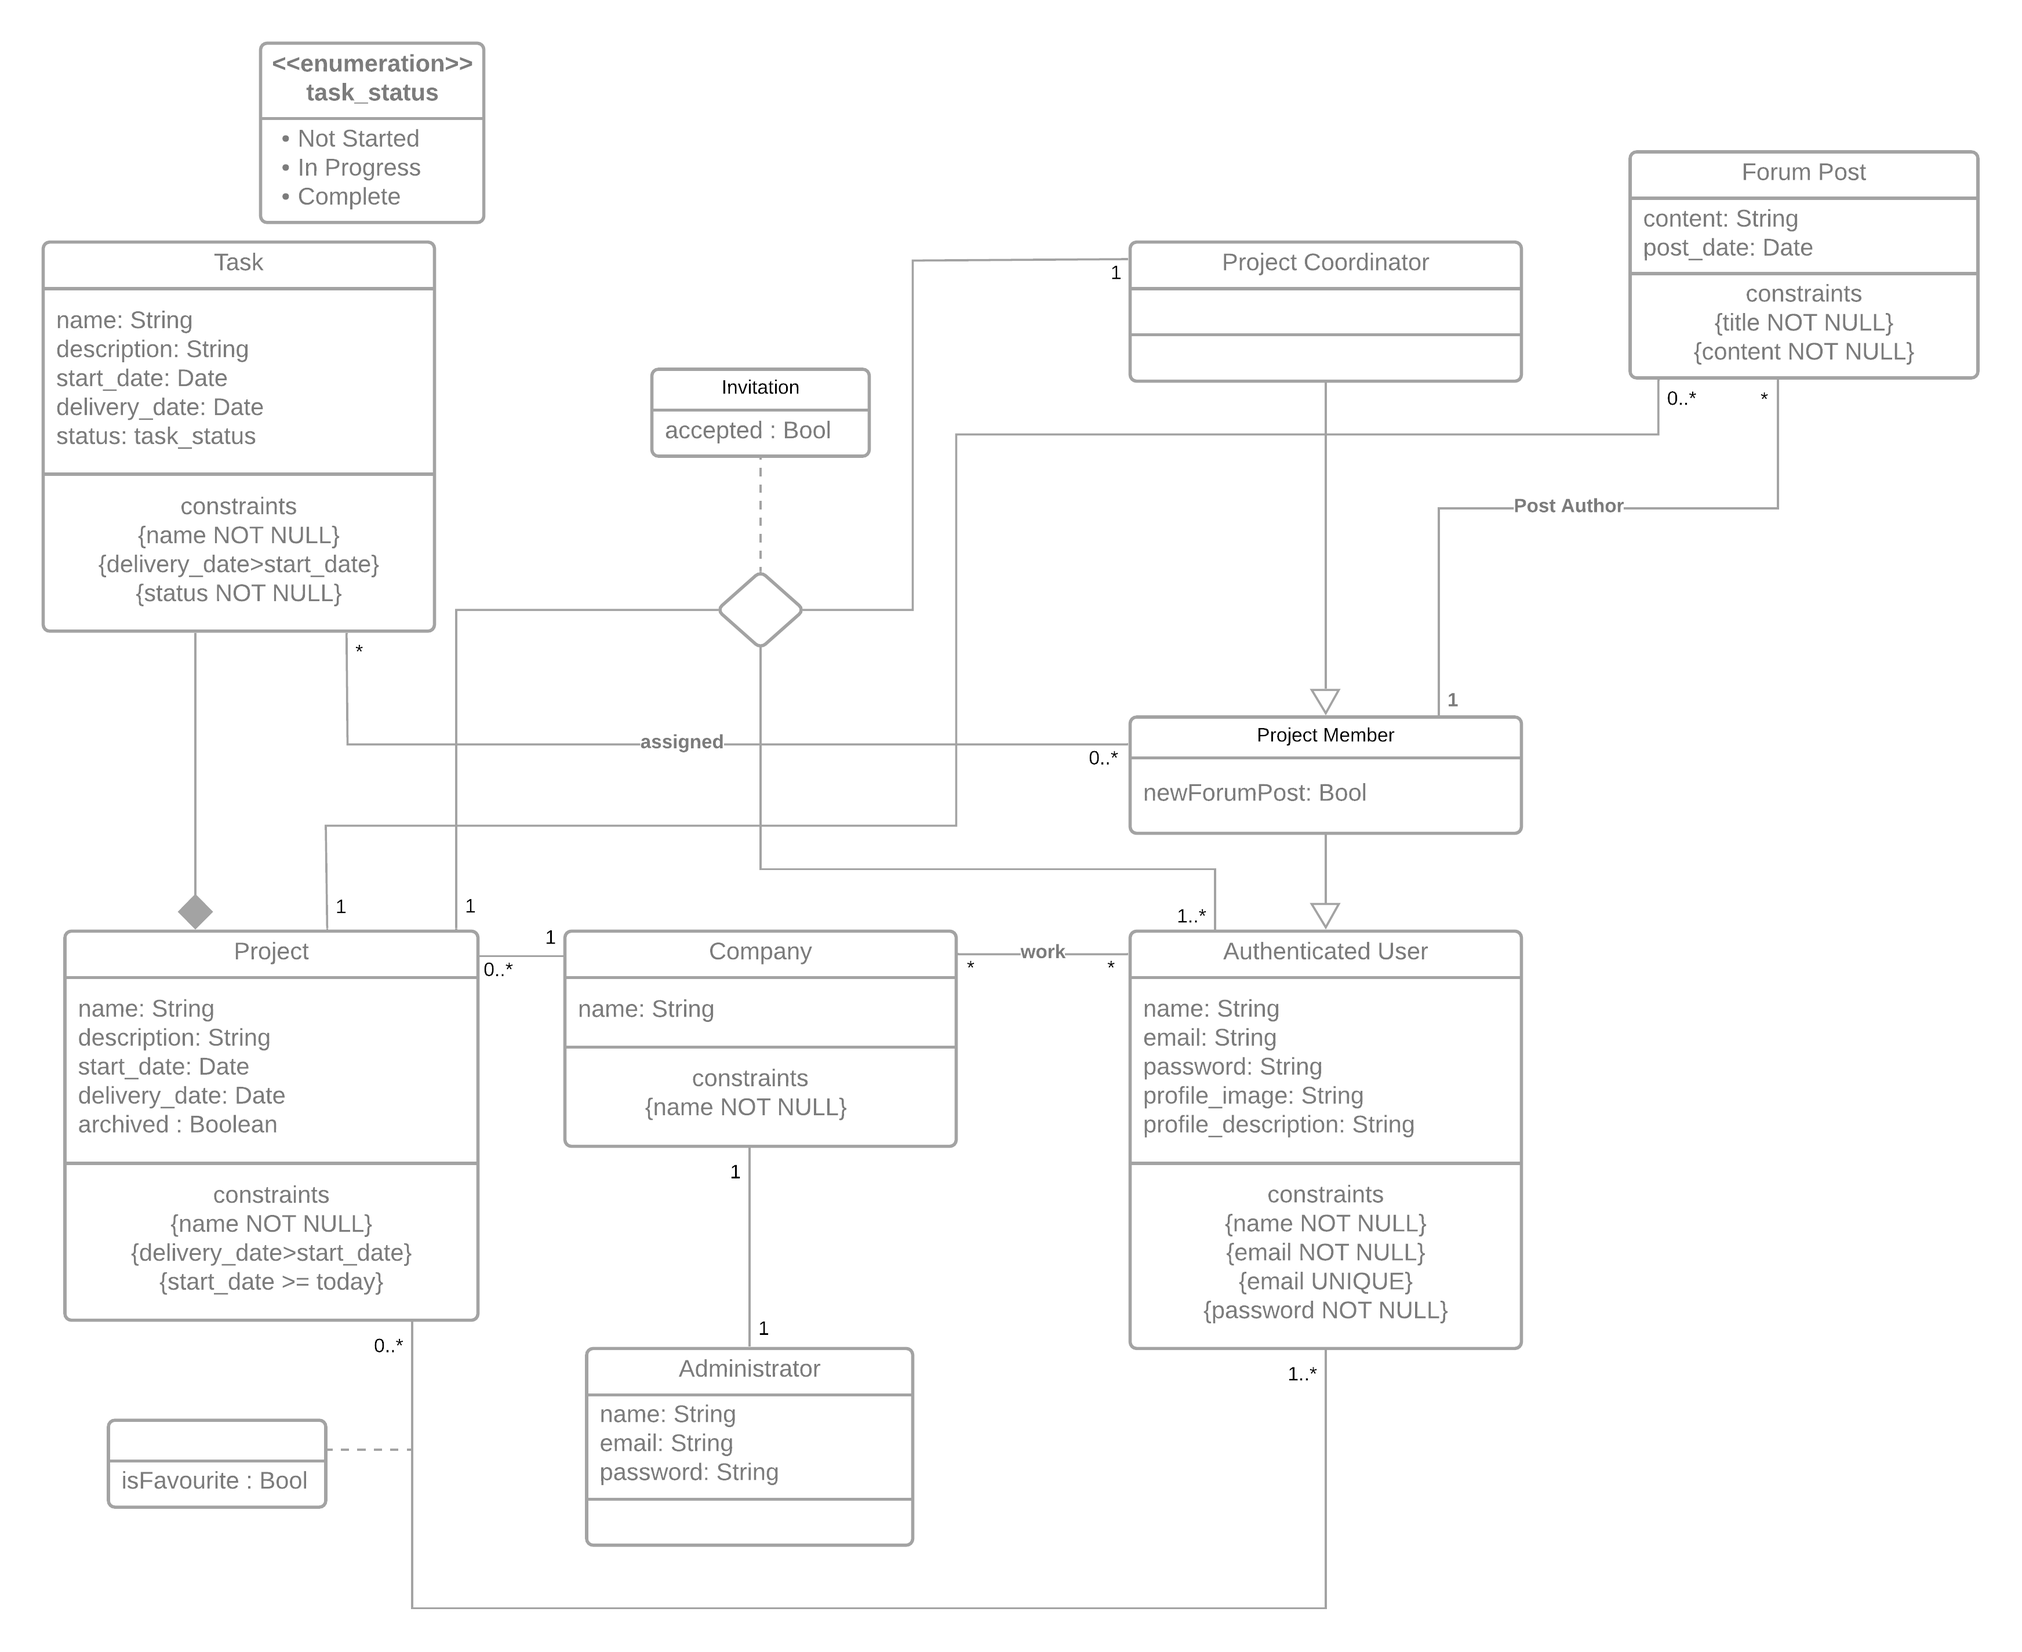
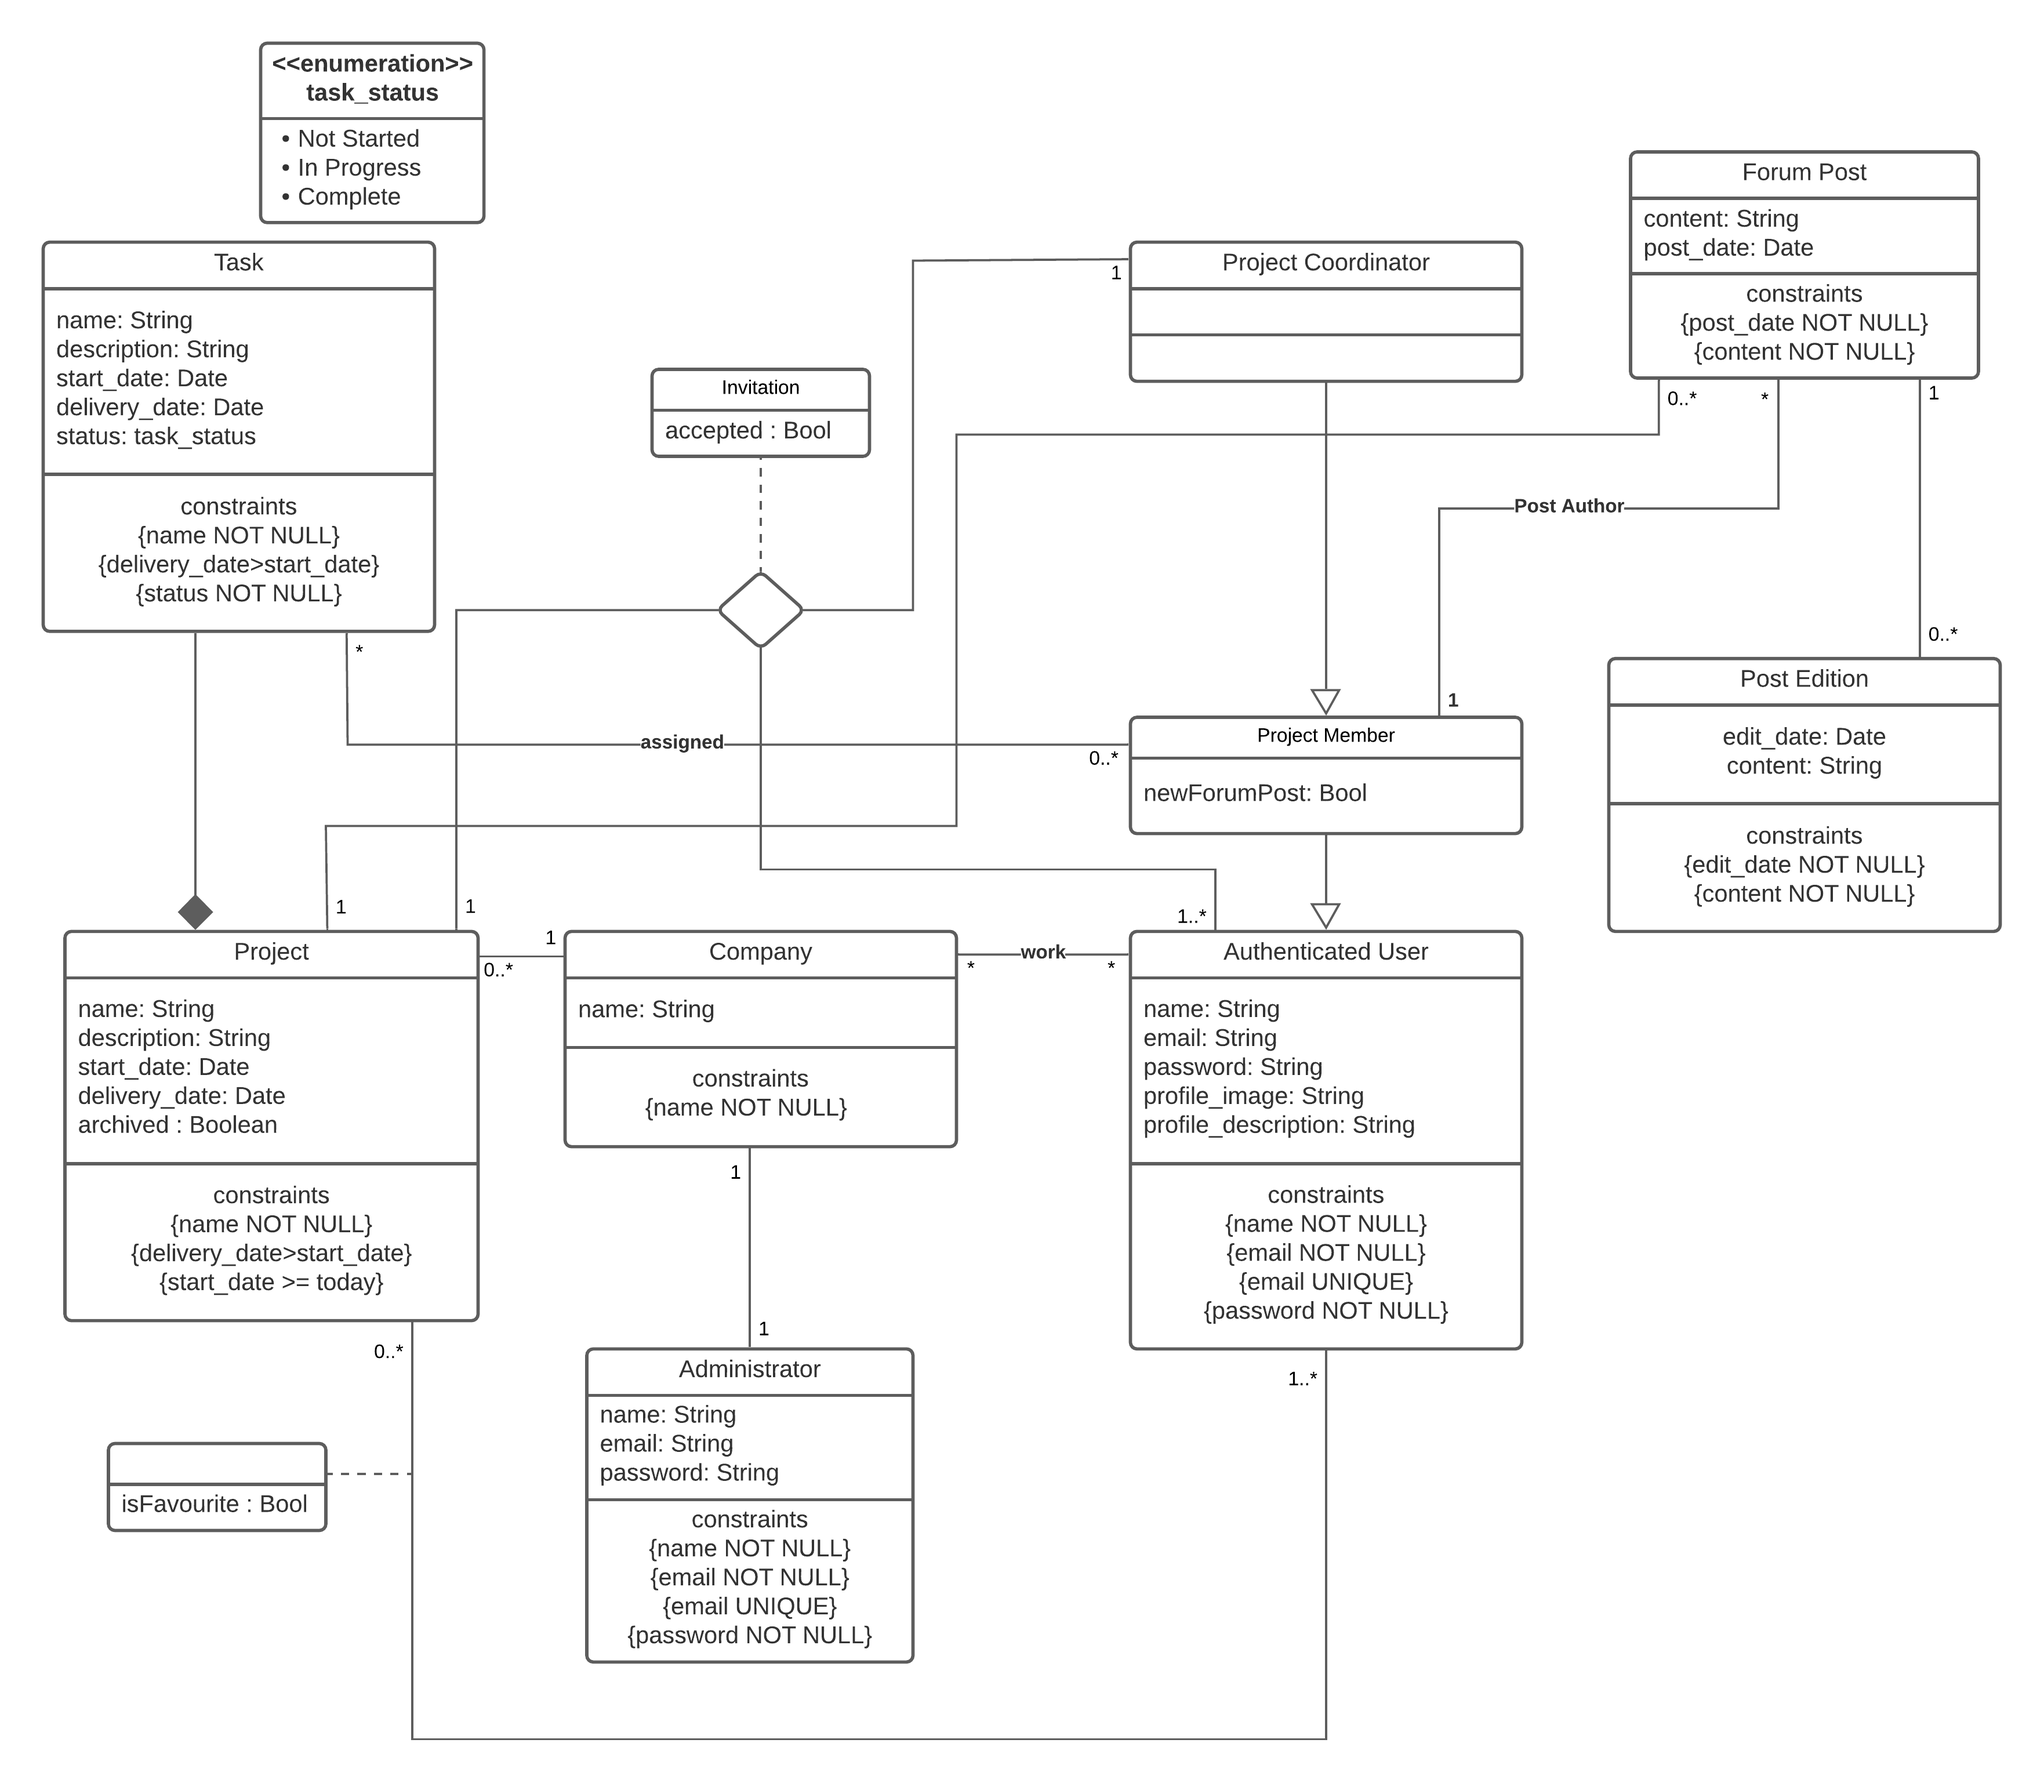
small change

diff --git a/EBD/ebd.md b/EBD/ebd.md
@@ -20,9 +20,7 @@ The following diagram represents the main organizational entities, the relations
 
 ### 2. Additional Business Rules
 
-> Business rules can be included in the UML diagram as UML notes or in a table in this section.
-
----
+* Only the post's author can generate new Post Editions
 
 ## A5: Relational Schema, validation and schema refinement
 
